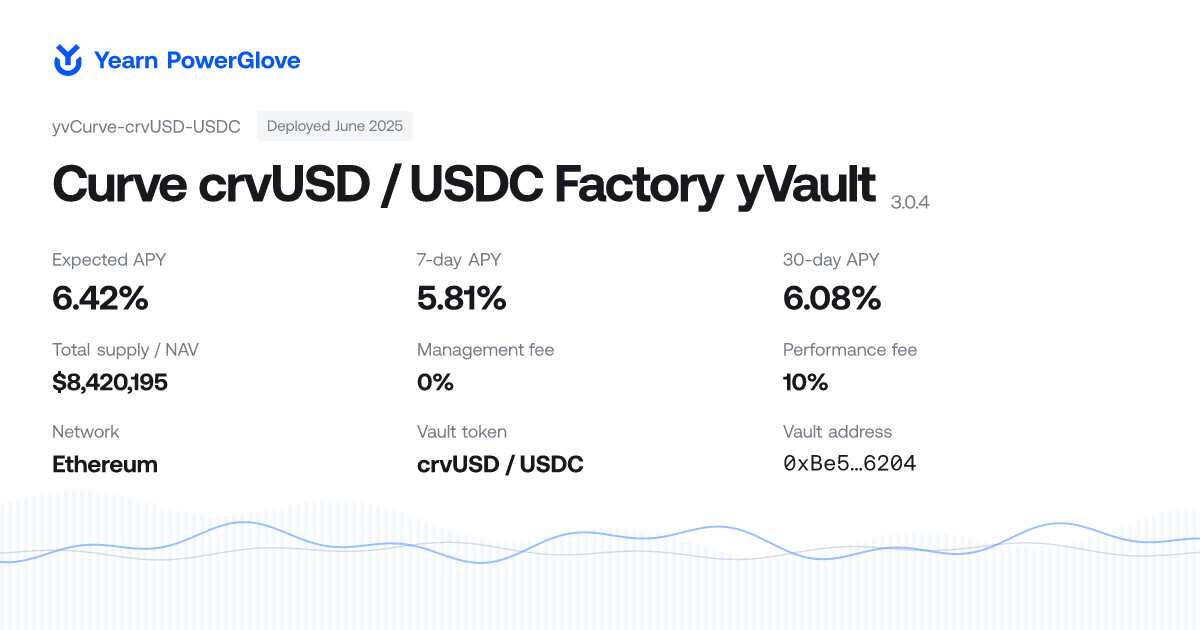
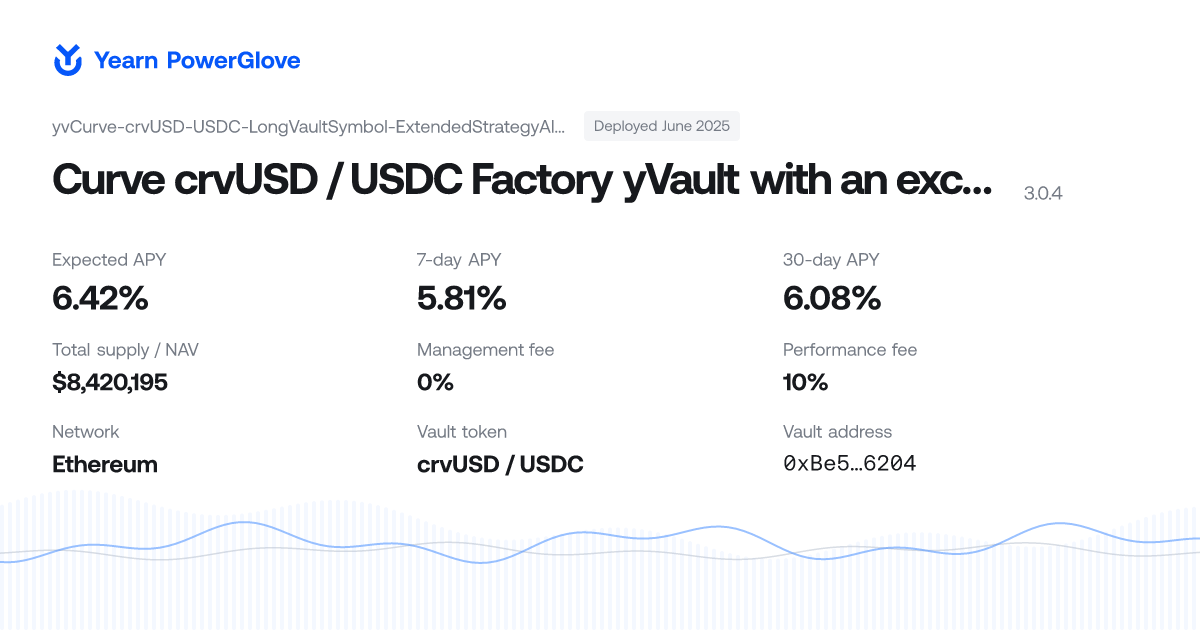
Fix Katana reward fallback and gate deployments
Preserve missing KAT reward fields during snapshot normalization so both
Powerglove and yearn.fi can fetch APR-service rewards. Keep explicit zero
rewards authoritative and add integration tests covering both routes.

Render an over-length name and symbol in the long-name study to exercise
the smaller font, clipping caps, and ellipsis.

Run tests and lint before deployment on pull requests and main pushes.

diff --git a/public/powerglove-review/index.html b/public/powerglove-review/index.html
@@ -3,12 +3,12 @@
 <style>@font-face{font-family:Aeonik;src:url('/fonts/Aeonik-Regular.woff2')}@font-face{font-family:Aeonik;src:url('/fonts/Aeonik-Bold.woff2');font-weight:700}*{box-sizing:border-box}body{margin:0;background:#f4f5f7;color:#17191d;font-family:Aeonik,Arial,sans-serif}main{max-width:1264px;margin:auto;padding:48px 24px}h1{font-size:32px;margin:0}p{color:#646b75;line-height:1.6;max-width:760px}h2{font-size:18px;font-weight:400;margin:36px 0 12px}img{width:100%;height:auto;display:block;background:white;border:1px solid #d8dde5;border-radius:24px}a{color:#0657f9;text-underline-offset:4px}nav{display:flex;gap:24px;flex-wrap:wrap;padding:16px 0}section{margin:32px 0}small{color:#646b75;overflow-wrap:anywhere}</style></head>
 <body><main><h1>Powerglove / Open Graph</h1><p>1200 × 630 cards rendered by the service. The five design studies use illustrative values from the original handoff. Live examples cover the main vaults page, all nine Powerglove chains, and allocator, strategy, factory, and legacy vaults. The faint chart motif is decorative and does not represent vault performance.</p>
 <nav><a href="#main">Main vaults page</a><a href="#chains">Every chain</a><a href="#types">Every vault type</a><a href="#studies">Design studies</a></nav>
-<section id="main"><h2>Live / Main vaults page</h2><a href="/api/og/powerglove?v=review-fixes-v1"><img src="/api/og/powerglove?v=review-fixes-v1" width="1200" height="630" alt="Live / Main vaults page" loading="lazy"></a></section>
-<section id="chains"><h2>Live / Every supported chain</h2><h2>Ethereum / USDC-1 yVault</h2><a href="/api/og/powerglove/vault/1/0xBe53A109B494E5c9f97b9Cd39Fe969BE68BF6204?v=review-fixes-v1"><img src="/api/og/powerglove/vault/1/0xBe53A109B494E5c9f97b9Cd39Fe969BE68BF6204?v=review-fixes-v1" width="1200" height="630" alt="Ethereum / USDC-1 yVault" loading="lazy"></a><p><small>Ethereum · 3.0.2 · 0xBe53A109B494E5c9f97b9Cd39Fe969BE68BF6204</small></p><h2>Optimism / WETH yVault</h2><a href="/api/og/powerglove/vault/10/0x5B977577Eb8a480f63e11FC615D6753adB8652Ae?v=review-fixes-v1"><img src="/api/og/powerglove/vault/10/0x5B977577Eb8a480f63e11FC615D6753adB8652Ae?v=review-fixes-v1" width="1200" height="630" alt="Optimism / WETH yVault" loading="lazy"></a><p><small>Optimism · 0.4.5 · 0x5B977577Eb8a480f63e11FC615D6753adB8652Ae</small></p><h2>GnosisChain / StrategyCurveNoBoostEURe</h2><a href="/api/og/powerglove/vault/100/0x1b66B4a3a80eBCFA3eCaBf5580cD9929ABa57bb1?v=review-fixes-v1"><img src="/api/og/powerglove/vault/100/0x1b66B4a3a80eBCFA3eCaBf5580cD9929ABa57bb1?v=review-fixes-v1" width="1200" height="630" alt="GnosisChain / StrategyCurveNoBoostEURe" loading="lazy"></a><p><small>GnosisChain · 3.0.2 · 0x1b66B4a3a80eBCFA3eCaBf5580cD9929ABa57bb1</small></p><h2>Polygon / USDC-1 yVault</h2><a href="/api/og/powerglove/vault/137/0x34b9421Fe3d52191B64bC32ec1aB764dcBcDbF5e?v=review-fixes-v1"><img src="/api/og/powerglove/vault/137/0x34b9421Fe3d52191B64bC32ec1aB764dcBcDbF5e?v=review-fixes-v1" width="1200" height="630" alt="Polygon / USDC-1 yVault" loading="lazy"></a><p><small>Polygon · 3.0.2 · 0x34b9421Fe3d52191B64bC32ec1aB764dcBcDbF5e</small></p><h2>Fantom / USDC yVault</h2><a href="/api/og/powerglove/vault/250/0xEF0210eB96c7EB36AF8ed1c20306462764935607?v=review-fixes-v1"><img src="/api/og/powerglove/vault/250/0xEF0210eB96c7EB36AF8ed1c20306462764935607?v=review-fixes-v1" width="1200" height="630" alt="Fantom / USDC yVault" loading="lazy"></a><p><small>Fantom · 0.4.3 · 0xEF0210eB96c7EB36AF8ed1c20306462764935607</small></p><h2>Base / USDC Horizon yVault</h2><a href="/api/og/powerglove/vault/8453/0xc3BD0A2193c8F027B82ddE3611D18589ef3f62a9?v=review-fixes-v1"><img src="/api/og/powerglove/vault/8453/0xc3BD0A2193c8F027B82ddE3611D18589ef3f62a9?v=review-fixes-v1" width="1200" height="630" alt="Base / USDC Horizon yVault" loading="lazy"></a><p><small>Base · 3.0.4 · 0xc3BD0A2193c8F027B82ddE3611D18589ef3f62a9</small></p><h2>Arbitrum / yPT-USDe (auto-rolling Pendle PT)</h2><a href="/api/og/powerglove/vault/42161/0x34a2b066AF16409648eF15d239E656edB8790ca0?v=review-fixes-v1"><img src="/api/og/powerglove/vault/42161/0x34a2b066AF16409648eF15d239E656edB8790ca0?v=review-fixes-v1" width="1200" height="630" alt="Arbitrum / yPT-USDe (auto-rolling Pendle PT)" loading="lazy"></a><p><small>Arbitrum · 3.0.2 · 0x34a2b066AF16409648eF15d239E656edB8790ca0</small></p><h2>Katana / vbUSDC yVault</h2><a href="/api/og/powerglove/vault/747474/0x80c34BD3A3569E126e7055831036aa7b212cB159?v=review-fixes-v1"><img src="/api/og/powerglove/vault/747474/0x80c34BD3A3569E126e7055831036aa7b212cB159?v=review-fixes-v1" width="1200" height="630" alt="Katana / vbUSDC yVault" loading="lazy"></a><p><small>Katana · 3.0.4 · 0x80c34BD3A3569E126e7055831036aa7b212cB159</small></p><h2>Berachain / Bearn BERA</h2><a href="/api/og/powerglove/vault/80094/0x982940eBfC5caa2F5b5a82AAc2Dfa99F18BB7dA4?v=review-fixes-v1"><img src="/api/og/powerglove/vault/80094/0x982940eBfC5caa2F5b5a82AAc2Dfa99F18BB7dA4?v=review-fixes-v1" width="1200" height="630" alt="Berachain / Bearn BERA" loading="lazy"></a><p><small>Berachain · 3.0.4 · 0x982940eBfC5caa2F5b5a82AAc2Dfa99F18BB7dA4</small></p></section>
-<section id="types"><h2>Live / Vault types</h2><h2>Allocator / USDC-1 yVault</h2><a href="/api/og/powerglove/vault/1/0xBe53A109B494E5c9f97b9Cd39Fe969BE68BF6204?v=review-fixes-v1"><img src="/api/og/powerglove/vault/1/0xBe53A109B494E5c9f97b9Cd39Fe969BE68BF6204?v=review-fixes-v1" width="1200" height="630" alt="Allocator / USDC-1 yVault" loading="lazy"></a><p><small>Ethereum · 3.0.2 · 0xBe53A109B494E5c9f97b9Cd39Fe969BE68BF6204</small></p><h2>Strategy / Morpho Yearn Morpho Vault 1 Compounder</h2><a href="/api/og/powerglove/vault/8453/0xF115C134c23C7A05FBD489A8bE3116EbF54B0D9f?v=review-fixes-v1"><img src="/api/og/powerglove/vault/8453/0xF115C134c23C7A05FBD489A8bE3116EbF54B0D9f?v=review-fixes-v1" width="1200" height="630" alt="Strategy / Morpho Yearn Morpho Vault 1 Compounder" loading="lazy"></a><p><small>Base · 3.0.4 · 0xF115C134c23C7A05FBD489A8bE3116EbF54B0D9f</small></p><h2>Factory / Curve DOLA-sUSDe Factory yVault</h2><a href="/api/og/powerglove/vault/1/0x1Fc80CfCF5B345b904A0fB36d4222196Ed9eB8a5?v=review-fixes-v1"><img src="/api/og/powerglove/vault/1/0x1Fc80CfCF5B345b904A0fB36d4222196Ed9eB8a5?v=review-fixes-v1" width="1200" height="630" alt="Factory / Curve DOLA-sUSDe Factory yVault" loading="lazy"></a><p><small>Ethereum · 0.4.6 · 0x1Fc80CfCF5B345b904A0fB36d4222196Ed9eB8a5</small></p><h2>Legacy / WETH yVault</h2><a href="/api/og/powerglove/vault/1/0xa258C4606Ca8206D8aA700cE2143D7db854D168c?v=review-fixes-v1"><img src="/api/og/powerglove/vault/1/0xa258C4606Ca8206D8aA700cE2143D7db854D168c?v=review-fixes-v1" width="1200" height="630" alt="Legacy / WETH yVault" loading="lazy"></a><p><small>Ethereum · 0.4.2 · 0xa258C4606Ca8206D8aA700cE2143D7db854D168c</small></p></section>
-<section id="studies"><h2>01 / Project</h2><a href="project.png?v=review-fixes-v1"><img src="project.png?v=review-fixes-v1" width="1200" height="630" alt="Powerglove project card"></a>
-<h2>02 / Standard vault · design fixture</h2><a href="vault.png?v=review-fixes-v1"><img src="vault.png?v=review-fixes-v1" width="1200" height="630" alt="Standard vault design"></a>
-<h2>03 / Long name · design fixture</h2><a href="long.png?v=review-fixes-v1"><img src="long.png?v=review-fixes-v1" width="1200" height="630" alt="Long vault name design"></a>
-<h2>04 / Unavailable APYs · design fixture</h2><a href="missing.png?v=review-fixes-v1"><img src="missing.png?v=review-fixes-v1" width="1200" height="630" alt="Unavailable APYs displayed as em dashes"></a>
-<h2>05 / Base · design fixture</h2><a href="base.png?v=review-fixes-v1"><img src="base.png?v=review-fixes-v1" width="1200" height="630" alt="Base vault design"></a></section>
+<section id="main"><h2>Live / Main vaults page</h2><a href="/api/og/powerglove?v=review-fixes-v2"><img src="/api/og/powerglove?v=review-fixes-v2" width="1200" height="630" alt="Live / Main vaults page" loading="lazy"></a></section>
+<section id="chains"><h2>Live / Every supported chain</h2><h2>Ethereum / USDC-1 yVault</h2><a href="/api/og/powerglove/vault/1/0xBe53A109B494E5c9f97b9Cd39Fe969BE68BF6204?v=review-fixes-v2"><img src="/api/og/powerglove/vault/1/0xBe53A109B494E5c9f97b9Cd39Fe969BE68BF6204?v=review-fixes-v2" width="1200" height="630" alt="Ethereum / USDC-1 yVault" loading="lazy"></a><p><small>Ethereum · 3.0.2 · 0xBe53A109B494E5c9f97b9Cd39Fe969BE68BF6204</small></p><h2>Optimism / WETH yVault</h2><a href="/api/og/powerglove/vault/10/0x5B977577Eb8a480f63e11FC615D6753adB8652Ae?v=review-fixes-v2"><img src="/api/og/powerglove/vault/10/0x5B977577Eb8a480f63e11FC615D6753adB8652Ae?v=review-fixes-v2" width="1200" height="630" alt="Optimism / WETH yVault" loading="lazy"></a><p><small>Optimism · 0.4.5 · 0x5B977577Eb8a480f63e11FC615D6753adB8652Ae</small></p><h2>GnosisChain / StrategyCurveNoBoostEURe</h2><a href="/api/og/powerglove/vault/100/0x1b66B4a3a80eBCFA3eCaBf5580cD9929ABa57bb1?v=review-fixes-v2"><img src="/api/og/powerglove/vault/100/0x1b66B4a3a80eBCFA3eCaBf5580cD9929ABa57bb1?v=review-fixes-v2" width="1200" height="630" alt="GnosisChain / StrategyCurveNoBoostEURe" loading="lazy"></a><p><small>GnosisChain · 3.0.2 · 0x1b66B4a3a80eBCFA3eCaBf5580cD9929ABa57bb1</small></p><h2>Polygon / USDC-1 yVault</h2><a href="/api/og/powerglove/vault/137/0x34b9421Fe3d52191B64bC32ec1aB764dcBcDbF5e?v=review-fixes-v2"><img src="/api/og/powerglove/vault/137/0x34b9421Fe3d52191B64bC32ec1aB764dcBcDbF5e?v=review-fixes-v2" width="1200" height="630" alt="Polygon / USDC-1 yVault" loading="lazy"></a><p><small>Polygon · 3.0.2 · 0x34b9421Fe3d52191B64bC32ec1aB764dcBcDbF5e</small></p><h2>Fantom / USDC yVault</h2><a href="/api/og/powerglove/vault/250/0xEF0210eB96c7EB36AF8ed1c20306462764935607?v=review-fixes-v2"><img src="/api/og/powerglove/vault/250/0xEF0210eB96c7EB36AF8ed1c20306462764935607?v=review-fixes-v2" width="1200" height="630" alt="Fantom / USDC yVault" loading="lazy"></a><p><small>Fantom · 0.4.3 · 0xEF0210eB96c7EB36AF8ed1c20306462764935607</small></p><h2>Base / USDC Horizon yVault</h2><a href="/api/og/powerglove/vault/8453/0xc3BD0A2193c8F027B82ddE3611D18589ef3f62a9?v=review-fixes-v2"><img src="/api/og/powerglove/vault/8453/0xc3BD0A2193c8F027B82ddE3611D18589ef3f62a9?v=review-fixes-v2" width="1200" height="630" alt="Base / USDC Horizon yVault" loading="lazy"></a><p><small>Base · 3.0.4 · 0xc3BD0A2193c8F027B82ddE3611D18589ef3f62a9</small></p><h2>Arbitrum / yPT-USDe (auto-rolling Pendle PT)</h2><a href="/api/og/powerglove/vault/42161/0x34a2b066AF16409648eF15d239E656edB8790ca0?v=review-fixes-v2"><img src="/api/og/powerglove/vault/42161/0x34a2b066AF16409648eF15d239E656edB8790ca0?v=review-fixes-v2" width="1200" height="630" alt="Arbitrum / yPT-USDe (auto-rolling Pendle PT)" loading="lazy"></a><p><small>Arbitrum · 3.0.2 · 0x34a2b066AF16409648eF15d239E656edB8790ca0</small></p><h2>Katana / vbUSDC yVault</h2><a href="/api/og/powerglove/vault/747474/0x80c34BD3A3569E126e7055831036aa7b212cB159?v=review-fixes-v2"><img src="/api/og/powerglove/vault/747474/0x80c34BD3A3569E126e7055831036aa7b212cB159?v=review-fixes-v2" width="1200" height="630" alt="Katana / vbUSDC yVault" loading="lazy"></a><p><small>Katana · 3.0.4 · 0x80c34BD3A3569E126e7055831036aa7b212cB159</small></p><h2>Berachain / Bearn BERA</h2><a href="/api/og/powerglove/vault/80094/0x982940eBfC5caa2F5b5a82AAc2Dfa99F18BB7dA4?v=review-fixes-v2"><img src="/api/og/powerglove/vault/80094/0x982940eBfC5caa2F5b5a82AAc2Dfa99F18BB7dA4?v=review-fixes-v2" width="1200" height="630" alt="Berachain / Bearn BERA" loading="lazy"></a><p><small>Berachain · 3.0.4 · 0x982940eBfC5caa2F5b5a82AAc2Dfa99F18BB7dA4</small></p></section>
+<section id="types"><h2>Live / Vault types</h2><h2>Allocator / USDC-1 yVault</h2><a href="/api/og/powerglove/vault/1/0xBe53A109B494E5c9f97b9Cd39Fe969BE68BF6204?v=review-fixes-v2"><img src="/api/og/powerglove/vault/1/0xBe53A109B494E5c9f97b9Cd39Fe969BE68BF6204?v=review-fixes-v2" width="1200" height="630" alt="Allocator / USDC-1 yVault" loading="lazy"></a><p><small>Ethereum · 3.0.2 · 0xBe53A109B494E5c9f97b9Cd39Fe969BE68BF6204</small></p><h2>Strategy / Morpho Yearn Morpho Vault 1 Compounder</h2><a href="/api/og/powerglove/vault/8453/0xF115C134c23C7A05FBD489A8bE3116EbF54B0D9f?v=review-fixes-v2"><img src="/api/og/powerglove/vault/8453/0xF115C134c23C7A05FBD489A8bE3116EbF54B0D9f?v=review-fixes-v2" width="1200" height="630" alt="Strategy / Morpho Yearn Morpho Vault 1 Compounder" loading="lazy"></a><p><small>Base · 3.0.4 · 0xF115C134c23C7A05FBD489A8bE3116EbF54B0D9f</small></p><h2>Factory / Curve DOLA-sUSDe Factory yVault</h2><a href="/api/og/powerglove/vault/1/0x1Fc80CfCF5B345b904A0fB36d4222196Ed9eB8a5?v=review-fixes-v2"><img src="/api/og/powerglove/vault/1/0x1Fc80CfCF5B345b904A0fB36d4222196Ed9eB8a5?v=review-fixes-v2" width="1200" height="630" alt="Factory / Curve DOLA-sUSDe Factory yVault" loading="lazy"></a><p><small>Ethereum · 0.4.6 · 0x1Fc80CfCF5B345b904A0fB36d4222196Ed9eB8a5</small></p><h2>Legacy / WETH yVault</h2><a href="/api/og/powerglove/vault/1/0xa258C4606Ca8206D8aA700cE2143D7db854D168c?v=review-fixes-v2"><img src="/api/og/powerglove/vault/1/0xa258C4606Ca8206D8aA700cE2143D7db854D168c?v=review-fixes-v2" width="1200" height="630" alt="Legacy / WETH yVault" loading="lazy"></a><p><small>Ethereum · 0.4.2 · 0xa258C4606Ca8206D8aA700cE2143D7db854D168c</small></p></section>
+<section id="studies"><h2>01 / Project</h2><a href="project.png?v=review-fixes-v2"><img src="project.png?v=review-fixes-v2" width="1200" height="630" alt="Powerglove project card"></a>
+<h2>02 / Standard vault · design fixture</h2><a href="vault.png?v=review-fixes-v2"><img src="vault.png?v=review-fixes-v2" width="1200" height="630" alt="Standard vault design"></a>
+<h2>03 / Long name · design fixture</h2><a href="long.png?v=review-fixes-v2"><img src="long.png?v=review-fixes-v2" width="1200" height="630" alt="Long vault name design"></a>
+<h2>04 / Unavailable APYs · design fixture</h2><a href="missing.png?v=review-fixes-v2"><img src="missing.png?v=review-fixes-v2" width="1200" height="630" alt="Unavailable APYs displayed as em dashes"></a>
+<h2>05 / Base · design fixture</h2><a href="base.png?v=review-fixes-v2"><img src="base.png?v=review-fixes-v2" width="1200" height="630" alt="Base vault design"></a></section>
 </main></body></html>

diff --git a/src/lib/og/katanaFallback.test.ts b/src/lib/og/katanaFallback.test.ts
@@ -1,0 +1,52 @@
+import { afterEach, describe, expect, test } from 'bun:test'
+import { resolvePowergloveCardData } from './powerglove'
+import { resolveStandardVaultOGData } from './vaultData'
+
+const originalFetch = global.fetch
+const originalKatanaApi = process.env.KATANA_APR_SERVICE_API
+const address = '0x80c34BD3A3569E126e7055831036aa7b212cB159'
+const fallbackUrl = 'https://katana-apr.example/api/aprs'
+
+afterEach(() => {
+  global.fetch = originalFetch
+  if (originalKatanaApi === undefined) delete process.env.KATANA_APR_SERVICE_API
+  else process.env.KATANA_APR_SERVICE_API = originalKatanaApi
+})
+
+describe('Katana snapshot-to-service reward fallback', () => {
+  const cases = [
+    { label: 'missing reward components use the APR service', components: undefined, fallback: true },
+    { label: 'invalid reward components use the APR service', components: { katanaAppRewardsAPR: null, fixedRateKatanaRewards: 'invalid' }, fallback: true },
+    { label: 'explicit zero snapshot rewards take precedence over the service', components: { katanaAppRewardsAPR: 0, fixedRateKatanaRewards: 0 }, fallback: false },
+  ]
+  for (const example of cases) {
+    test(example.label, async () => {
+      process.env.KATANA_APR_SERVICE_API = fallbackUrl
+      let serviceCalls = 0
+      global.fetch = (async (input: string | URL | Request) => {
+        if (String(input) === fallbackUrl) {
+          serviceCalls++
+          return Response.json({ [address.toLowerCase().slice(2)]: { apr: { extra: { katanaRewardsAPR: .1, FixedRateKatanaRewards: .2 } } } })
+        }
+        expect(String(input)).toContain('/snapshot/747474/')
+        return Response.json({
+          address, chainId: 747474,
+          performance: {
+            oracle: { netAPY: .05 },
+            estimated: { components: example.components },
+            historical: { weeklyNet: .02, monthlyNet: .03 },
+          },
+        })
+      }) as typeof fetch
+      const powerglove = await resolvePowergloveCardData('747474', address)
+      const yearn = await resolveStandardVaultOGData('747474', address)
+      const rewards = example.fallback ? .3 : 0
+      expect(serviceCalls).toBe(example.fallback ? 2 : 0)
+      expect(powerglove?.expectedApy).toBeCloseTo(.05 + rewards, 12)
+      expect(powerglove?.weeklyApy).toBeCloseTo(.02 + rewards, 12)
+      expect(powerglove?.monthlyApy).toBeCloseTo(.03 + rewards, 12)
+      expect(`${(powerglove!.expectedApy! * 100).toFixed(2)}%`).toBe(yearn.estimatedApy)
+      expect(`${(powerglove!.monthlyApy! * 100).toFixed(2)}%`).toBe(yearn.historicalApy)
+    })
+  }
+})

diff --git a/scripts/export-powerglove.tsx b/scripts/export-powerglove.tsx
@@ -13,7 +13,8 @@ const standard: PowergloveCardData = {
 }
 const studies: [string, PowergloveCardData | undefined][] = [
   ['project', undefined], ['vault', standard],
-  ['long', { ...standard, name: 'Curve crvUSD / USDC Factory yVault', symbol: 'yvCurve-crvUSD-USDC', version: '3.0.4', deployed: 'June 2025', asset: 'crvUSD / USDC', expectedApy: .0642, weeklyApy: .0581, monthlyApy: .0608, nav: 8420195 }],
+  // Exercise the smaller font, string caps, and the renderer's ellipsis.
+  ['long', { ...standard, name: 'Curve crvUSD / USDC Factory yVault with an exceptionally long multi-strategy allocation and automated yield-compounding mandate', symbol: 'yvCurve-crvUSD-USDC-LongVaultSymbol-ExtendedStrategyAllocation-Review', version: '3.0.4', deployed: 'June 2025', asset: 'crvUSD / USDC', expectedApy: .0642, weeklyApy: .0581, monthlyApy: .0608, nav: 8420195 }],
   ['missing', { ...standard, name: 'WETH yVault', symbol: 'yvWETH', deployed: 'September 2026', asset: 'WETH', expectedApy: undefined, weeklyApy: undefined, monthlyApy: undefined, nav: 125840 }],
   ['base', { ...standard, name: 'USDC yVault', symbol: 'yvUSDC', version: '3.0.4', deployed: 'June 2025', chainID: 8453, chainName: 'Base', address: '0xc3BD0A2193c8F027B82ddE3611D18589ef3f62a9', expectedApy: .0524, weeklyApy: .0489, monthlyApy: .0512, nav: 3842610 }],
 ]

diff --git a/src/lib/og/fetchers.ts b/src/lib/og/fetchers.ts
@@ -110,8 +110,7 @@ export function normalizeKongVaultSnapshot(snapshot: any): any | null {
 
   const fixedRateKatanaRewards =
     toFiniteNumber(estimatedComponents?.fixedRateKatanaRewards) ??
-    toFiniteNumber(estimatedComponents?.FixedRateKatanaRewards) ??
-    0
+    toFiniteNumber(estimatedComponents?.FixedRateKatanaRewards)
 
   const forwardNetAPR = isKatanaVault
     ? pickNumber(
@@ -157,7 +156,9 @@ export function normalizeKongVaultSnapshot(snapshot: any): any | null {
         stakingRewardsAPR: 0,
         gammaRewardAPR: 0,
         katanaBonusAPY: pickNumber(estimatedComponents?.katanaBonusAPY),
-        katanaAppRewardsAPR: pickNumber(estimatedComponents?.katanaAppRewardsAPR),
+        // Preserve missing rewards so the shared APY resolver can use its
+        // APR-service fallback. An explicit zero still counts as known data.
+        katanaAppRewardsAPR: toFiniteNumber(estimatedComponents?.katanaAppRewardsAPR),
         steerPointsPerDollar: pickNumber(estimatedComponents?.steerPointsPerDollar),
         fixedRateKatanaRewards,
       },

diff --git a/README.md b/README.md
@@ -45,6 +45,8 @@ Cards use the Powerglove design handoff, Aeonik, and a 1200 × 630 full-bleed wh
 
 Vault cards read raw Kong snapshots so unavailable values are preserved. Katana expected APY reuses the yearn.fi OG calculation, combining its native rate with KAT app rewards and fixed-rate KAT rewards into one headline when a native rate is available; missing native rates remain unavailable rather than becoming zero. Other vaults prefer `performance.estimated.apy`, then Oracle net APY, then weekly-compounded net APR. A gross Oracle APR is fee-adjusted only if both fees are known. Historical APYs use the snapshot's distinct weekly/monthly fields without substituting one for the other. Katana adds the same KAT incentives used by the yearn.fi historical OG to each available period; missing history remains unavailable. yBOLD uses staking-vault yield and performance fees, and yvUSD uses the APR service's APY for the requested vault address, falling back only to a snapshot estimate identified as `yvusd-estimated-apr`. Cards show each requested vault individually rather than the paired locked/unlocked presentation in Powerglove.
 
+The long-name study deliberately exceeds the font-size threshold and name/symbol limits to exercise truncation.
+
 The gallery uses a `v` query parameter only to bypass cached images after visual updates; it does not select a design variant.
 
 Successful images cache for five minutes. Unavailable vault snapshots, including the required yBOLD staking snapshot, return an uncached 503 with a retry hint; invalid chain/address requests return 400. NAV is the snapshot USD valuation, not a live on-chain valuation. Existing Yearn and Katana routes are unchanged.
@@ -56,3 +58,7 @@ bun scripts/export-powerglove.tsx
 ```
 
 Review values and addresses in the design exports are fixtures, not live measurements. The gallery labels these separately from live route images.
+
+## Automated checks
+
+Pull requests and pushes to `main` run `bun test` and `bun run lint` before the Vercel deployment job. A failed check skips deployment. Dependencies are installed from the frozen lockfile with lifecycle scripts disabled.
